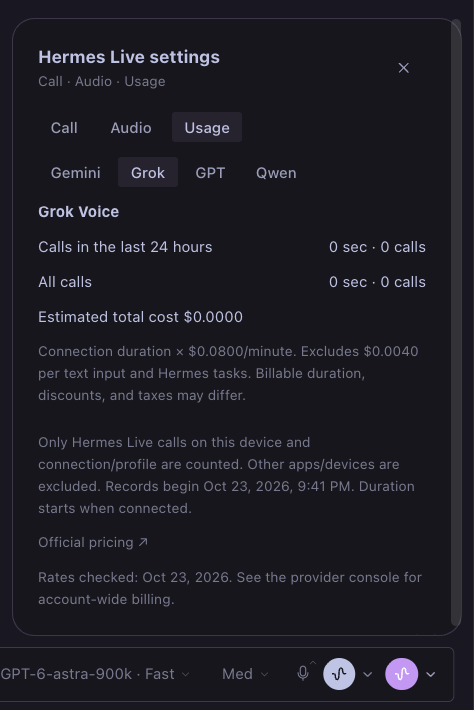
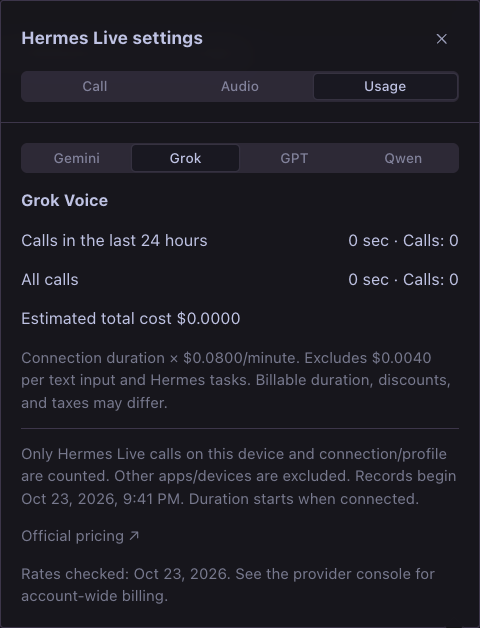
docs: refresh screenshots and animated tour for v0.9.0

Changed region(s): [[0.0, 0.0, 1.0, 1.0]]

diff --git a/README.ko.md b/README.ko.md
@@ -6,9 +6,23 @@ English: [README.md](./README.md)
 
 공식 앱을 수정하거나 다시 빌드하지 않고 입력란에 통화 버튼을 추가합니다. 최근 채팅 맥락을 음성 모델에 전달하며, 파일 확인이나 작업 요청은 현재 Hermes 채팅에 위임합니다. 마이크·스피커 선택, 음소거, 실시간 자막, 제공자별 사용량과 예상 요금을 지원합니다.
 
-![Hermes Live 기능 소개](assets/hermes-live-demo.gif)
+## 미리보기
 
-영상은 v0.7.0의 기능 소개입니다. v0.9.0에서는 Hermes 공식 디자인 시스템에 맞춰 선택 상자, 탭, 간격과 인증 안내 배치를 정리했습니다.
+Hermes Desktop의 기본 선택 상자와 탭을 사용하는 v0.9.0 설정 화면입니다.
+
+![Hermes Live v0.9.0 통화 설정](assets/settings-v0.9.png)
+
+현재 영문 화면을 순서대로 보여주는 GIF입니다. 보라색 통화 버튼은 저장된 설정으로 통화를 시작하고, 옆 화살표는 설정 패널을 엽니다.
+
+![Hermes Live v0.9.0 제공자·오디오·사용량 화면 소개](assets/hermes-live-demo.gif)
+
+| 네 가지 음성 제공자 | 마이크·스피커 설정 |
+| --- | --- |
+| ![Gemini·Grok·Qwen·Codex 구독 제공자 선택](assets/providers.png) | ![시스템 기본 마이크·스피커 선택과 마이크 테스트](assets/audio-settings.png) |
+| **API 사용량과 예상 요금** | **Codex 구독 한도** |
+| ![Grok 통화 시간과 예상 API 요금](assets/api-usage.png) | ![Codex Pro 주간 사용률·잔여량·초기화 시간](assets/codex-usage.png) |
+
+2026년 10월 23일 Hermes Desktop v0.22.5와 Hermes Live v0.9.0에서 촬영했습니다. GIF는 실제 설정 화면을 엮은 애니메이션이며 실통화 녹화가 아닙니다. 개인 백엔드 정보는 촬영 영역에서 제외했습니다. 사용량 수치는 촬영 당시 값이며 구독 한도를 보장하지 않습니다. 인터페이스는 앱의 언어 설정에 따라 17개 언어를 지원합니다.
 
 ## 요구 사항
 

diff --git a/README.md b/README.md
@@ -12,7 +12,7 @@ The v0.9.0 settings panel uses Hermes Desktop’s native selectors and segmented
 
 ![Hermes Live v0.9.0 native settings controls](assets/settings-v0.9.png)
 
-An English-interface tour of the installed plugin: account usage, API cost estimates, audio devices, and provider settings. The purple composer button starts a call with saved settings; its adjacent arrow opens this panel.
+An animated tour assembled from current English-interface screenshots: provider settings, audio devices, API cost estimates, and account usage. The purple composer button starts a call with saved settings; its adjacent arrow opens this panel.
 
 ![Hermes Live settings tour in Hermes Desktop](assets/hermes-live-demo.gif)
 
@@ -22,7 +22,7 @@ An English-interface tour of the installed plugin: account usage, API cost estim
 | **API usage and estimated costs** | **Codex subscription limits** |
 | ![Grok call duration and estimated API cost](assets/api-usage.png) | ![Codex Pro weekly usage, remaining allowance, and reset time](assets/codex-usage.png) |
 
-Captured in Hermes Desktop v0.22.5 with Hermes Live v0.7.0. Usage figures are snapshots, not plan guarantees. The demo shows settings navigation; it does not record a live voice conversation. The interface follows the main app language across all 17 supported languages.
+Captured on October 23, 2026 in Hermes Desktop v0.22.5 with Hermes Live v0.9.0. Usage figures are snapshots, not plan guarantees. The GIF cycles through actual settings screenshots; it is not a live call recording. Personal backend details are outside the capture area. The interface follows the main app language across all 17 supported languages.
 
 ## Requirements
 
